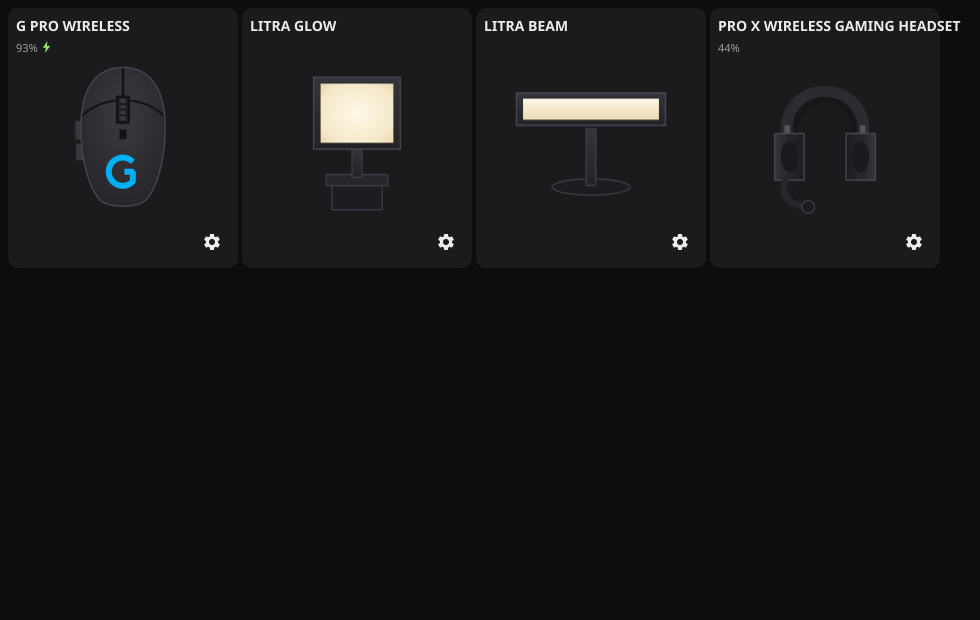
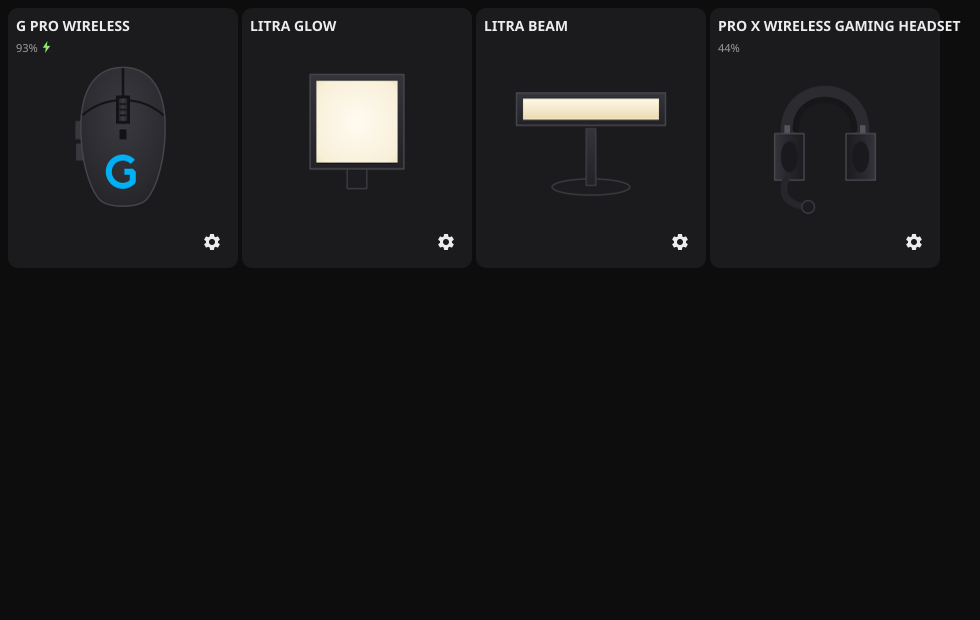
Match G HUB's Litra page: power pill, gradient sliders, live halo
The lighting panel becomes G HUB's "Light" panel for lights: a POWER
row with an ON/OFF pill toggle (accent-filled while on, and only
flipping state once the device accepted the change), then Temperature
and Brightness sliders with a gradient strip and end labels under each
track (Warm/Cool — mirrored from G HUB since our slider's left end is
min Kelvin — and Dim/Bright). The showcase render of a light now glows:
a radial halo behind it tracks power, temperature tint, and brightness
strength live as the controls change. The Litra Glow render is redrawn
closer to the real product (large rounded panel, mount stub).

Claude-Session: https://claude.ai/code/session_012G3xCm836vyhQgGvqn7bKg

Changed region(s): [[0.3061, 0.0919, 0.4286, 0.3065]]

diff --git a/cmd/logitux/ui.go b/cmd/logitux/ui.go
@@ -85,8 +85,17 @@ func buildDevicePage(a *appState, devices []device.Device, d device.Device) fyne
 	title.TextSize = theme.Size(theme.SizeNameSubHeadingText)
 	topBar := container.NewHBox(back, container.NewPadded(title))
 
-	showcase := deviceShowcase(d)
-	sections := deviceSections(a, d)
+	// Lights get a halo behind their showcase render that tracks the
+	// power/brightness/temperature controls live, like G HUB's Litra
+	// page, where the render actually glows.
+	var glow *lightGlow
+	if info.Kind == device.KindLight {
+		saved, _ := a.store.Get(info.Serial)
+		glow = newLightGlow(saved)
+	}
+
+	showcase := deviceShowcase(d, glow)
+	sections := deviceSections(a, d, glow)
 	if len(sections) == 0 {
 		return container.NewBorder(topBar, nil, nil, nil, showcase)
 	}
@@ -128,10 +137,93 @@ func buildDevicePage(a *appState, devices []device.Device, d device.Device) fyne
 	return container.NewBorder(topBar, nil, nil, nil, container.NewPadded(content))
 }
 
+// lightGlow is the halo behind a light's showcase render. The lighting
+// panel's controls update it as the user adjusts them, so the render
+// reflects the light's actual state: off means no halo, and the halo's
+// tint and strength follow color temperature and brightness.
+type lightGlow struct {
+	gradient   *canvas.RadialGradient
+	on         bool
+	brightness int
+	kelvin     int
+}
+
+func newLightGlow(saved config.DeviceState) *lightGlow {
+	g := &lightGlow{
+		gradient:   canvas.NewRadialGradient(color.Transparent, color.Transparent),
+		on:         saved.Power,
+		brightness: saved.Brightness,
+		kelvin:     saved.Temperature,
+	}
+	// Same defaults the panel's widgets seed with, so halo and controls
+	// agree before the user touches anything.
+	if g.brightness <= 0 {
+		g.brightness = 50
+	}
+	if g.kelvin <= 0 {
+		g.kelvin = (minLitraKelvin + maxLitraKelvin) / 2
+	}
+	g.apply()
+	return g
+}
+
+func (g *lightGlow) apply() {
+	if g.on {
+		// Halfway between the Kelvin tint and pure white: a raw warm/cool
+		// tint over the black background reads gray, not glowing.
+		c := kelvinColor(g.kelvin)
+		c.R += (0xff - c.R) / 2
+		c.G += (0xff - c.G) / 2
+		c.B += (0xff - c.B) / 2
+		c.A = uint8(0x24 + g.brightness*0x8c/100)
+		g.gradient.StartColor = c
+	} else {
+		g.gradient.StartColor = color.NRGBA{}
+	}
+	g.gradient.Refresh()
+}
+
+func (g *lightGlow) setPower(on bool)          { g.on = on; g.apply() }
+func (g *lightGlow) setBrightness(pct int)     { g.brightness = pct; g.apply() }
+func (g *lightGlow) setTemperature(kelvin int) { g.kelvin = kelvin; g.apply() }
+
+// The Litra range; kelvinColor interpolates across it. Fine for other
+// future lights too — tints outside it just clamp to the endpoints.
+const (
+	minLitraKelvin = 2700
+	maxLitraKelvin = 6500
+)
+
+var (
+	warmColor = color.NRGBA{R: 0xff, G: 0xc2, B: 0x70, A: 0xff} // ~2700K
+	coolColor = color.NRGBA{R: 0xcf, G: 0xe2, B: 0xff, A: 0xff} // ~6500K
+)
+
+// kelvinColor approximates a color temperature as an RGB tint by
+// interpolating between a warm and a cool endpoint — plenty for a UI
+// halo; nobody is color-grading against it.
+func kelvinColor(kelvin int) color.NRGBA {
+	t := float64(kelvin-minLitraKelvin) / float64(maxLitraKelvin-minLitraKelvin)
+	if t < 0 {
+		t = 0
+	}
+	if t > 1 {
+		t = 1
+	}
+	lerp := func(a, b uint8) uint8 { return uint8(float64(a) + t*(float64(b)-float64(a))) }
+	return color.NRGBA{
+		R: lerp(warmColor.R, coolColor.R),
+		G: lerp(warmColor.G, coolColor.G),
+		B: lerp(warmColor.B, coolColor.B),
+		A: 0xff,
+	}
+}
+
 // deviceShowcase fills a device page's main area, G HUB-style: battery
 // level (and serial) in the top-left corner, and a large product render
-// under a faded oversized product name.
-func deviceShowcase(d device.Device) fyne.CanvasObject {
+// under a faded oversized product name. glow, non-nil only for lights,
+// is layered behind the render.
+func deviceShowcase(d device.Device, glow *lightGlow) fyne.CanvasObject {
 	info := d.Info()
 
 	var infoRows []fyne.CanvasObject
@@ -165,10 +257,16 @@ func deviceShowcase(d device.Device) fyne.CanvasObject {
 	art.FillMode = canvas.ImageFillContain
 	art.SetMinSize(fyne.NewSize(340, 300))
 
+	render := fyne.CanvasObject(art)
+	if glow != nil {
+		glow.gradient.SetMinSize(fyne.NewSize(400, 360))
+		render = container.NewStack(glow.gradient, container.NewCenter(art))
+	}
+
 	center := container.NewVBox(
 		layout.NewSpacer(),
 		container.NewCenter(ghost),
-		container.NewCenter(art),
+		container.NewCenter(render),
 		layout.NewSpacer(),
 	)
 	return container.NewStack(center, corner)
@@ -180,7 +278,7 @@ func deviceShowcase(d device.Device) fyne.CanvasObject {
 // are set directly on the widget fields — not via SetValue/SetChecked —
 // so seeding the UI never sends a command to the device before the user
 // interacts with it.
-func deviceSections(a *appState, d device.Device) []pageSection {
+func deviceSections(a *appState, d device.Device, glow *lightGlow) []pageSection {
 	info := d.Info()
 	serial := info.Serial
 	saved, _ := a.store.Get(serial)
@@ -193,7 +291,7 @@ func deviceSections(a *appState, d device.Device) []pageSection {
 	}
 	add("sensitivity", sensitivityIcon, sensitivityPanel(a, d, info, serial, saved))
 	add("assignments", assignmentsIcon, assignmentsPanel(a, d, info, serial, saved))
-	add("lighting", lightingIcon, lightingPanel(a, d, info, serial, saved))
+	add("lighting", lightingIcon, lightingPanel(a, d, info, serial, saved, glow))
 	add("sound", soundIcon, soundPanel(a, d, info, serial, saved))
 	return sections
 }
@@ -251,6 +349,71 @@ func labeledSlider(captionText string, format func(int) string, initial, min, ma
 		onChanged(int(v))
 	}
 	return container.NewVBox(panelCaption(captionText), value, slider)
+}
+
+// gradientSlider is labeledSlider plus what G HUB's light sliders have:
+// a gradient strip under the track previewing what the ends mean, with
+// end labels (e.g. "Cool" ... "Warm"). The current value still gets a
+// bold readout, right-aligned on the caption row.
+func gradientSlider(captionText string, format func(int) string, leftLabel, rightLabel string, start, end color.Color, initial, min, max, step int, onChanged func(int)) fyne.CanvasObject {
+	value := canvas.NewText(format(initial), colorForeground)
+	value.TextStyle = fyne.TextStyle{Bold: true}
+	value.TextSize = theme.Size(theme.SizeNameText)
+
+	slider := widget.NewSlider(float64(min), float64(max))
+	slider.Value = float64(initial)
+	slider.Step = float64(step)
+	slider.OnChanged = func(v float64) {
+		value.Text = format(int(v))
+		value.Refresh()
+		onChanged(int(v))
+	}
+
+	strip := canvas.NewHorizontalGradient(start, end)
+	strip.SetMinSize(fyne.NewSize(0, 5))
+
+	left := canvas.NewText(leftLabel, colorSecondary)
+	left.TextSize = theme.Size(theme.SizeNameCaptionText)
+	right := canvas.NewText(rightLabel, colorSecondary)
+	right.TextSize = theme.Size(theme.SizeNameCaptionText)
+
+	return container.NewVBox(
+		container.NewHBox(panelCaption(captionText), layout.NewSpacer(), value),
+		slider,
+		strip,
+		container.NewHBox(left, layout.NewSpacer(), right),
+	)
+}
+
+// powerPill is G HUB's "POWER [ON]" row: caption on the left, a pill
+// toggle showing the current state on the right (accent-filled while
+// on). onChanged only runs when the device accepted the change, so the
+// pill never shows a state the hardware refused.
+func powerPill(initial bool, apply func(on bool) error, onChanged func(on bool)) fyne.CanvasObject {
+	on := initial
+	toggle := widget.NewButton("", nil)
+	render := func() {
+		if on {
+			toggle.SetText("ON")
+			toggle.Importance = widget.HighImportance
+		} else {
+			toggle.SetText("OFF")
+			toggle.Importance = widget.MediumImportance
+		}
+		toggle.Refresh()
+	}
+	render()
+	toggle.OnTapped = func() {
+		if err := apply(!on); err != nil {
+			return // logged by the caller's apply; keep showing the real state
+		}
+		on = !on
+		render()
+		onChanged(on)
+	}
+
+	caption := container.NewVBox(layout.NewSpacer(), panelCaption("Power"), layout.NewSpacer())
+	return container.NewHBox(caption, layout.NewSpacer(), toggle)
 }
 
 // --- capability panels -----------------------------------------------------
@@ -388,10 +551,12 @@ func assignmentsPanel(a *appState, d device.Device, info device.Info, serial str
 	return body
 }
 
-// lightingPanel covers the light-shaped capabilities: power, brightness,
-// and color temperature (Litra lights), and RGB logo color (mice). Nil
-// if the device has none of them.
-func lightingPanel(a *appState, d device.Device, info device.Info, serial string, saved config.DeviceState) fyne.CanvasObject {
+// lightingPanel covers the light-shaped capabilities: power, color
+// temperature, and brightness (Litra lights, laid out in G HUB's order
+// with its gradient sliders), and RGB logo color (mice). Nil if the
+// device has none of them. glow (non-nil only for lights) is kept in
+// sync so the showcase render reflects each change.
+func lightingPanel(a *appState, d device.Device, info device.Info, serial string, saved config.DeviceState, glow *lightGlow) fyne.CanvasObject {
 	pc, hasPower := d.(device.PowerControl)
 	bc, hasBrightness := d.(device.BrightnessControl)
 	tc, hasTemperature := d.(device.TemperatureControl)
@@ -400,37 +565,31 @@ func lightingPanel(a *appState, d device.Device, info device.Info, serial string
 		return nil
 	}
 
+	heading := "Lighting"
+	if info.Kind == device.KindLight {
+		heading = "Light" // G HUB's own heading on the Litra page
+	}
 	body := container.NewVBox(
-		panelHeading("Lighting"),
+		panelHeading(heading),
 		widget.NewLabel(""),
 	)
 
 	if hasPower {
-		check := widget.NewCheck("Power", nil)
-		check.Checked = saved.Power
-		check.OnChanged = func(on bool) {
-			if err := pc.SetPower(on); err != nil {
-				log.Printf("logitux: set power on %s: %v", info.Name, err)
-				return
-			}
-			a.saveState(serial, func(s *config.DeviceState) { s.Power = on })
-		}
-		body.Add(check)
-	}
-
-	if hasBrightness {
-		initial := saved.Brightness
-		if initial <= 0 {
-			initial = 50
-		}
-		body.Add(labeledSlider("Brightness", func(v int) string { return fmt.Sprintf("%d%%", v) },
-			initial, 0, 100, 1, func(percent int) {
-				if err := bc.SetBrightness(percent); err != nil {
-					log.Printf("logitux: set brightness on %s: %v", info.Name, err)
-					return
+		body.Add(powerPill(saved.Power,
+			func(on bool) error {
+				if err := pc.SetPower(on); err != nil {
+					log.Printf("logitux: set power on %s: %v", info.Name, err)
+					return err
 				}
-				a.saveState(serial, func(s *config.DeviceState) { s.Brightness = percent })
+				return nil
+			},
+			func(on bool) {
+				if glow != nil {
+					glow.setPower(on)
+				}
+				a.saveState(serial, func(s *config.DeviceState) { s.Power = on })
 			}))
+		body.Add(widget.NewLabel(""))
 	}
 
 	if hasTemperature {
@@ -439,13 +598,39 @@ func lightingPanel(a *appState, d device.Device, info device.Info, serial string
 		if initial <= 0 {
 			initial = (min + max) / 2
 		}
-		body.Add(labeledSlider("Color Temperature", func(v int) string { return fmt.Sprintf("%dK", v) },
+		// Left end = min Kelvin = warm, so the strip runs warm-to-cool —
+		// mirrored from G HUB's, whose slider runs the other direction.
+		body.Add(gradientSlider("Temperature", func(v int) string { return fmt.Sprintf("%dK", v) },
+			"Warm", "Cool", warmColor, coolColor,
 			initial, min, max, 100, func(kelvin int) {
 				if err := tc.SetTemperature(kelvin); err != nil {
 					log.Printf("logitux: set temperature on %s: %v", info.Name, err)
 					return
 				}
+				if glow != nil {
+					glow.setTemperature(kelvin)
+				}
 				a.saveState(serial, func(s *config.DeviceState) { s.Temperature = kelvin })
+			}))
+		body.Add(widget.NewLabel(""))
+	}
+
+	if hasBrightness {
+		initial := saved.Brightness
+		if initial <= 0 {
+			initial = 50
+		}
+		body.Add(gradientSlider("Brightness", func(v int) string { return fmt.Sprintf("%d%%", v) },
+			"Dim", "Bright", color.NRGBA{R: 0x3a, G: 0x3a, B: 0x40, A: 0xff}, color.NRGBA{R: 0xf2, G: 0xf2, B: 0xf2, A: 0xff},
+			initial, 0, 100, 1, func(percent int) {
+				if err := bc.SetBrightness(percent); err != nil {
+					log.Printf("logitux: set brightness on %s: %v", info.Name, err)
+					return
+				}
+				if glow != nil {
+					glow.setBrightness(percent)
+				}
+				a.saveState(serial, func(s *config.DeviceState) { s.Brightness = percent })
 			}))
 	}
 

diff --git a/cmd/logitux/preview_test.go b/cmd/logitux/preview_test.go
@@ -34,6 +34,8 @@ type fakeBattDevice struct{ fakeDevice }
 
 func (f *fakeBattDevice) Battery() (int, bool, error) { return f.percent, f.charging, nil }
 
+type fakeLightDevice struct{ fakeDevice }
+
 func TestGeneratePreview(t *testing.T) {
 	if os.Getenv("LOGITUX_PREVIEW") == "" {
 		t.Skip("preview generation only")
@@ -43,7 +45,7 @@ func TestGeneratePreview(t *testing.T) {
 
 	devices := []device.Device{
 		&fakeBattDevice{fakeDevice{info: device.Info{Name: "G Pro Wireless", Kind: device.KindMouse, Serial: "A1B2C3"}, percent: 93, charging: true}},
-		&fakeDevice{info: device.Info{Name: "Litra Glow", Kind: device.KindLight, Serial: "D4E5F6"}},
+		&fakeLightDevice{fakeDevice{info: device.Info{Name: "Litra Glow", Kind: device.KindLight, Serial: "D4E5F6"}}},
 		&fakeDevice{info: device.Info{Name: "Litra Beam", Kind: device.KindLight, Serial: "D4E5F7"}},
 		&fakeBattDevice{fakeDevice{info: device.Info{Name: "PRO X Wireless Gaming Headset", Kind: device.KindHeadset, Serial: "G7H8I9"}, percent: 44}},
 	}
@@ -62,7 +64,23 @@ func TestGeneratePreview(t *testing.T) {
 	w2 := test.NewWindow(buildMainView(state, devices))
 	w2.Resize(fyne.NewSize(980, 620))
 	save(t, w2.Canvas().Capture(), "preview-device.png")
+
+	// Litra page, with saved state so the power pill reads ON and the
+	// showcase halo is lit.
+	litra := devices[1]
+	if err := store.Set(litra.Info().Serial, config.DeviceState{Power: true, Brightness: 65, Temperature: 5000}); err != nil {
+		t.Fatal(err)
+	}
+	state.selectedSerial = litra.Info().Serial
+	w3 := test.NewWindow(buildMainView(state, devices))
+	w3.Resize(fyne.NewSize(980, 620))
+	save(t, w3.Canvas().Capture(), "preview-litra.png")
 }
+
+func (f *fakeLightDevice) SetPower(bool) error          { return nil }
+func (f *fakeLightDevice) SetBrightness(int) error      { return nil }
+func (f *fakeLightDevice) SetTemperature(int) error     { return nil }
+func (f *fakeLightDevice) TemperatureRange() (int, int) { return 2700, 6500 }
 
 func (f *fakeBattDevice) DPIRange() (int, int, int)    { return 100, 25600, 50 }
 func (f *fakeBattDevice) SetDPI(int) error             { return nil }

diff --git a/README.md b/README.md
@@ -9,6 +9,7 @@ a Go toolchain and Fyne's usual GUI build dependencies.
 
 ![LogiTux's Dashboard, styled after Logitech G HUB: one dark card per connected device with a product render (original artwork, not Logitech's — see Credit), battery level, and a settings button](images/screenshot-dashboard.png)
 ![LogiTux's device page for a G Pro Wireless: product render and name in the header, then DPI and battery controls](images/screenshot-mouse.png)
+![LogiTux's Litra Glow page: a power pill, temperature and brightness gradient sliders, and a render whose halo follows the light's state](images/screenshot-litra.png)
 
 ## Status
 
@@ -41,7 +42,10 @@ Sensitivity (DPI, report rate), Assignments (button remapping), Lighting
 (sidetone, equalizer) — and only the sections a device actually supports
 appear. The panel beside the rail holds the selected section's controls,
 and the rest of the page shows the battery level and a large product
-render. The selected section sticks across LogiTux's periodic re-polling
+render. On a light's page, the render actually glows, like G HUB's Litra
+page: a halo behind it follows the power pill and the temperature and
+brightness gradient sliders live. The selected section sticks across
+LogiTux's periodic re-polling
 rather than snapping back to the first every few seconds. A system
 tray icon offers quick per-device actions (power, DPI presets) without
 opening the window.